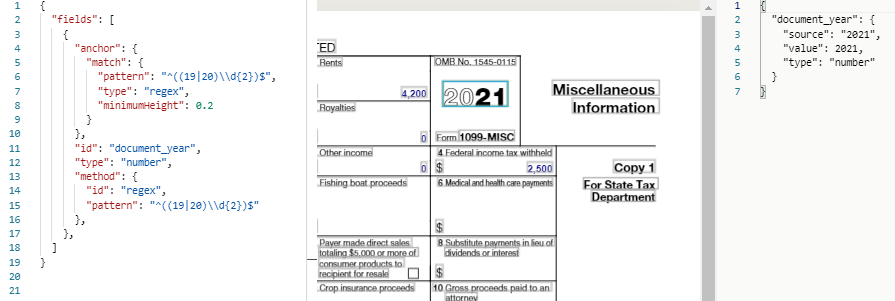
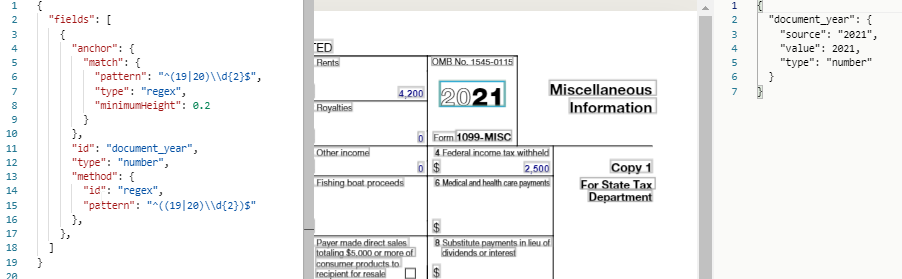
changed image

diff --git a/readme-sync/v0/senseml-reference/300 - methods/180 - regex.md b/readme-sync/v0/senseml-reference/300 - methods/180 - regex.md
@@ -2,7 +2,7 @@
 title: "Regex"
 hidden: false
 ---
-Returns lines matching a regular expression. Often, you use a capturing group in this method to narrow down some text in a line you matched in an anchor.
+Returns lines matching a regular expression. Often, you use a capturing group in this method to narrow down some text in a line you matched in an anchor. 
 
 Parameters
 ====
@@ -12,7 +12,7 @@ Parameters
 
 | key                    | value                                  | description                                                  |
 | ---------------------- | -------------------------------------- | ------------------------------------------------------------ |
-| id (**required**)      | `regex`                                |                                                              |
+| id (**required**)      | `regex`                                | The anchor line is included in this method's match.          |
 | pattern (**required**) | Javascript-flavored regular expression | If the regular expression has capturing groups (for example, `([0-9])([a-z])`, Sensible return the contents of the **first** capturing group (in the preceding example, a single numeric character). Otherwise, Sensible returns the full contents of the matched line.  Note you have to double escape characters, since the regex is contained in a JSON object (for example, `\\s` not `\s` to represent a whitespace character). |
 | flags                  | JS-flavored regex flags, default: none | Flags to apply to the regex. for example: "i" for case-insensitive, "g", "m", etc. |
 | stop                   | Match object. default: none            | A Match object to stop extraction. Not included in the method output.  If unspecified, matches to end of document. |
@@ -35,7 +35,7 @@ The following example narrows down text that's matched in an anchor line (since 
     {
       "anchor": {
         "match": {
-          "pattern": "^((19|20)\\d{2})$",
+          "pattern": "^(19|20)\\d{2}$",
           "type": "regex",
           "minimumHeight": 0.2
         }
